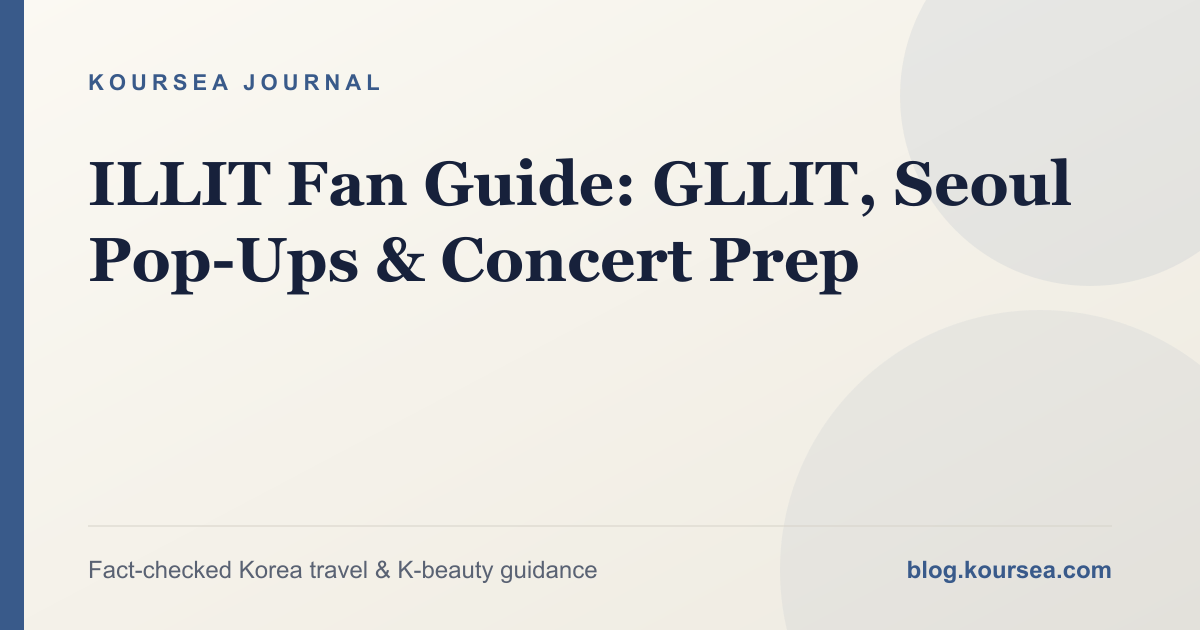
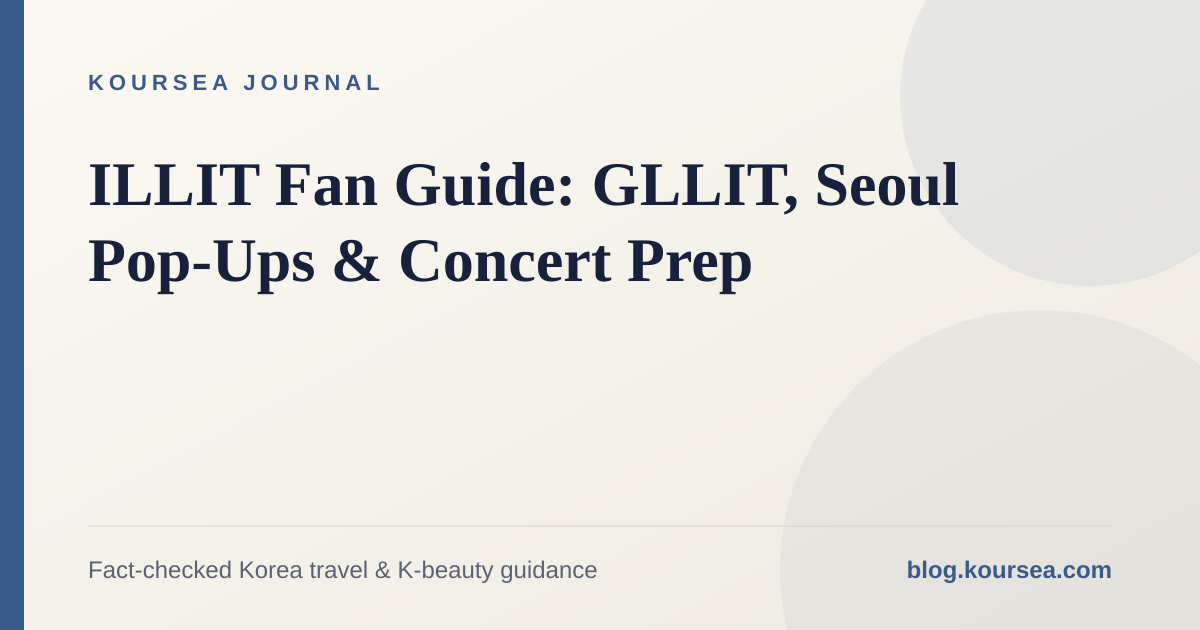
Add NMIXX fan guide (#69)
Adds a fan guide for NMIXX (JYP Entertainment, debuted Feb 22, 2022),
covering the official NSWER fandom name, JYP Center visit rules
(reusing the verified Seongnae-dong address/rules already established
in the TWICE guide, since it's the same shared HQ), the group's most
recent confirmed release (Heavy Serenade, May 11 2026), and concert
ticketing prep.

Verified via web search rather than training memory: fandom name
(Soompi), current lineup and most recent release (Wikipedia,
Korea Times, allkpop). Sources cited at the bottom of the post.

Note: the /remove-ai-marks watermarks-remover service was not
reachable in this environment, so the deterministic check could not
be run locally before this commit; CI's ai-marks-check.yml runs its
own instance of the service and should catch anything it would flag.

Claude-Session: https://claude.ai/code/session_016wJQfJdigc7spdJqcPYteE

diff --git a/src/content/posts/nmixx-fan-guide.md b/src/content/posts/nmixx-fan-guide.md
@@ -1,0 +1,71 @@
+---
+title: "NMIXX Fan Guide to Seoul: JYP Center, NSWER Basics & Comeback Prep (2026)"
+description: "A practical NMIXX fan guide covering the NSWER fandom name, current JYP Center visit rules, the Heavy Serenade era, and Seoul concert/ticketing prep."
+pubDate: 2026-09-20
+updatedDate: 2026-09-20
+category: "K-Pop & Concerts"
+tags: ["nmixx", "nswer", "jyp entertainment", "heavy serenade", "kpop concert tickets"]
+canonicalUrl: "https://blog.koursea.com/posts/nmixx-fan-guide/"
+author: "Koursea Editorial"
+faq:
+  - question: "What is NMIXX's official fandom name?"
+    answer: "JYP Entertainment announced NSWER as the official fandom name, revealed shortly after the group's debut. It stands for North, South, East, West and Route, meaning NMIXX and fans find their route and answer together."
+  - question: "Can fans visit JYP Entertainment's headquarters for NMIXX?"
+    answer: "JYP Center is a working office, not a public NMIXX attraction. Treat it as a brief, respectful exterior stop only, and never wait at entrances or film staff and artists."
+  - question: "What is NMIXX's most recent confirmed release?"
+    answer: "As of this guide's last check, the most recent confirmed release is the fifth mini album Heavy Serenade, released May 11, 2026. Check NMIXX's official channels for anything newer."
+---
+
+# NMIXX Fan Guide to Seoul: JYP Center, NSWER Basics & Comeback Prep
+
+NMIXX debuted on February 22, 2022 under JYP Entertainment with the single "O.O." The group is currently six members — Lily, Haewon, Sullyoon, Bae, Jiwoo and Kyujin — after Jinni departed the lineup on December 9, 2022. Their official fandom name is **NSWER**. This guide keeps travel planning tied to JYP's official channels rather than rumored schedules or unofficial visitor locations.
+
+## Key Takeaways for NSWER
+
+- The fandom name is **NSWER** (North, South, East, West, Route), announced through JYP's official channels shortly after debut.
+- JYP Center, the agency's Seoul headquarters, is a working office — plan for a brief respectful exterior stop only, not a visitor facility.
+- The most recently confirmed release as of this guide is the fifth mini album *Heavy Serenade* (May 11, 2026). Recheck official notices for anything more recent before you travel.
+- Use JYP's official artist page and Weverse-style notices as the source of truth for schedules, not fan-account reposts.
+- For concerts, verify membership, ticket-account identity and payment details before the sale opens.
+
+## JYP Center: Current Location and Visit Rules
+
+JYP Entertainment's headquarters — used by all of the label's artists, including NMIXX — is officially listed at 205 Gangdong-daero, Gangdong-gu, Seoul (성내동). Gangdong-gu Office Station on Subway Line 8 is the closest practical approach, roughly a 500-meter walk; Dunchon-dong Station on Line 5 is a longer alternative. Confirm the live walking route and station exit status on the day rather than relying on an old fan-blog map.
+
+Treat a visit as a 10-to-20-minute exterior stop only. The building is a working office, not a museum or public NMIXX facility: photograph the exterior from public sidewalks, keep doors and driveways clear, and do not wait at entrances or film staff, artists or other visitors. A parked vehicle or a small crowd outside is not confirmation of an unannounced schedule.
+
+## Current Activity Context for NSWER
+
+NMIXX's most recently confirmed release is the fifth mini album *Heavy Serenade*, which came out May 11, 2026 with six tracks led by the title track, alongside songs including "Crescendo" and "Different Girl." Treat this as the latest confirmed activity at the time this guide was written — check NMIXX's official page and JYP's notices directly for anything announced since, since release schedules can move quickly.
+
+For merchandise, compare the exact product name, official seller and benefit period against the current JYP or Weverse Shop listing before paying. A retailer carrying other licensed K-pop goods is not proof that every individual listing or photocard is official.
+
+## NMIXX Concert and Fan-Event Ticketing
+
+When a Seoul concert, fan meeting or fan-sign is officially announced, work from that event's own notice rather than a general schedule you saw elsewhere — presale eligibility, identity-matching rules and pickup instructions can differ from one event to the next.
+
+Before ticketing:
+
+1. Create and verify the required ticketing account (and membership account, if the event uses one).
+2. Match the account and membership name to the passport you will carry.
+3. Check whether membership presale registration is required before the general ticket queue opens.
+4. Test your payment method in advance and keep a backup card ready.
+5. Save the venue address, entry rules and transport plan offline for event day.
+
+Our [K-Pop concert ticketing guide](/posts/kpop-concert-ticketing-seoul-2026/) covers Korean ticket platforms, identity verification and foreign-card failure points in detail. If a platform needs a Korean verification code, review the [Korea eSIM and phone-number guide](/posts/korea-esim-with-phone-number-2026-guide/) before assuming a data-only plan will work.
+
+## Respectful Fan Travel Checklist
+
+- Confirm the current JYP Center address and treat it as a brief exterior stop, not a destination in itself.
+- Do not wait at agency entrances, hotels, airports or rumored private locations.
+- Confirm any pop-up or fan event through JYP's own official channel before traveling to it.
+- Keep passport, membership and ticket-account names consistent for any event with identity checks.
+- Recheck official sources close to your trip — schedules, venues and benefit periods can change quickly.
+
+## Official Sources
+
+- [NMIXX official artist page, JYP Entertainment](https://jype.com/nmixx/)
+- [JYP Entertainment: official contact and current address](https://www.jype.com/ko/JYP/Contact)
+- [Wikipedia: NMIXX](https://en.wikipedia.org/wiki/Nmixx)
+- [Wikipedia: Heavy Serenade](https://en.wikipedia.org/wiki/Heavy_Serenade)
+- [Soompi: NMIXX announces official fandom name](https://www.soompi.com/article/1515170wpp/jyps-new-girl-group-nmixx-announces-official-fandom-name)
